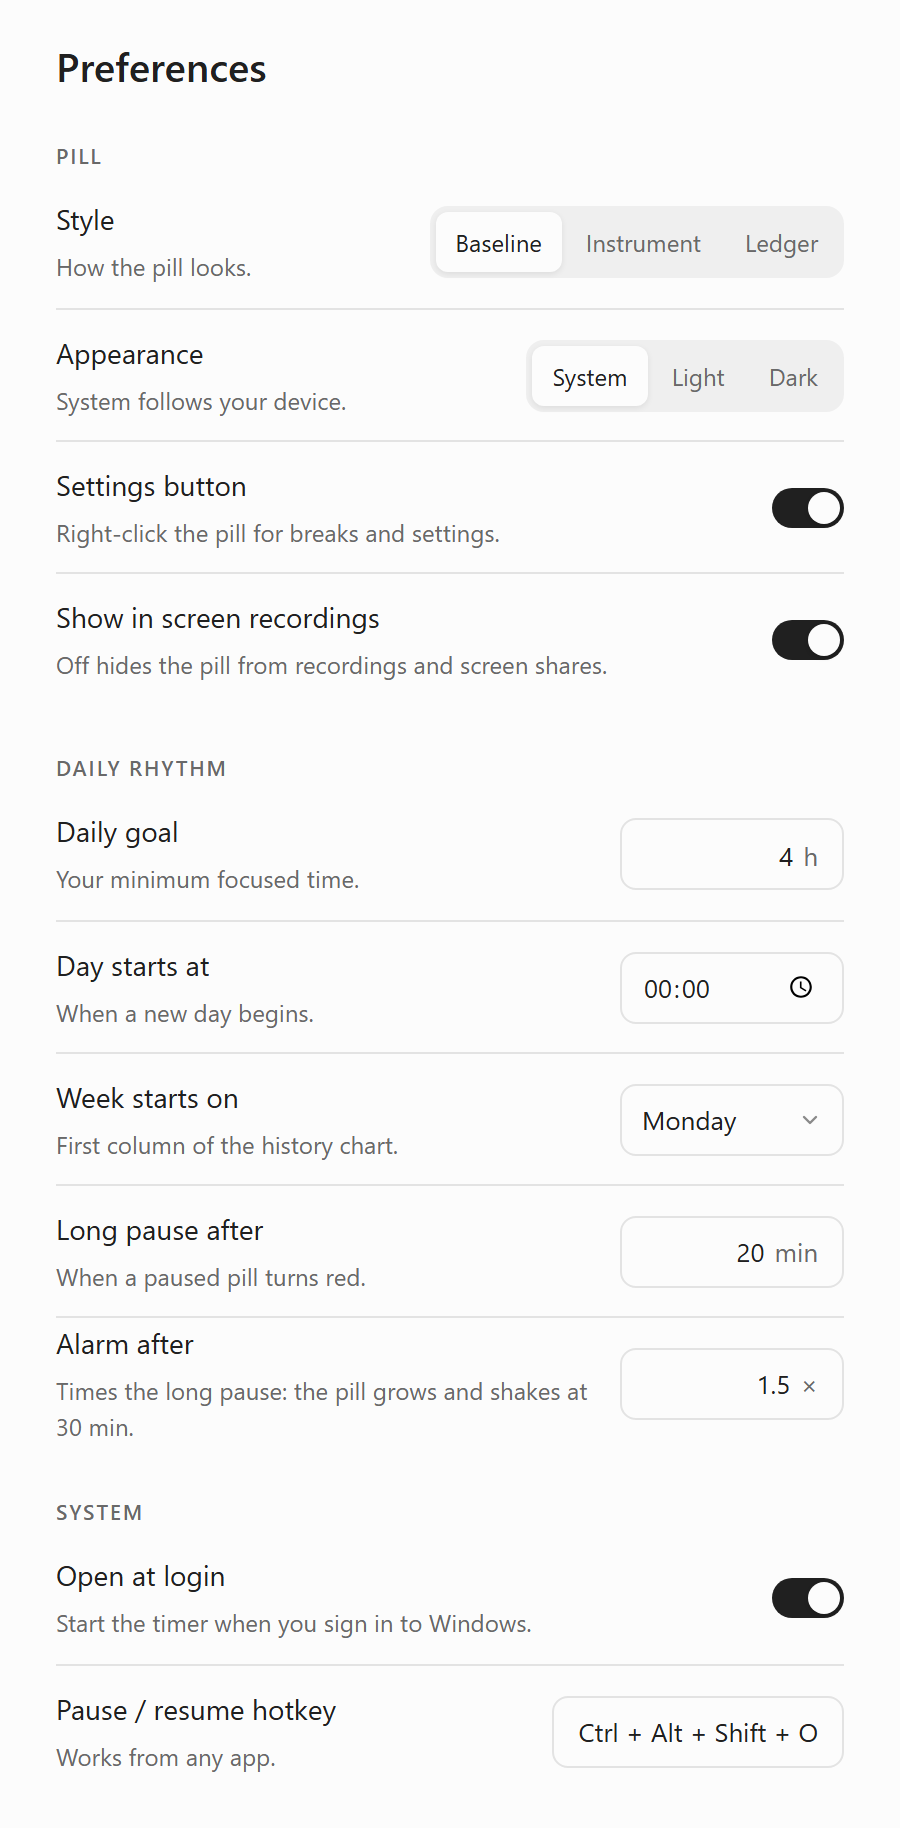
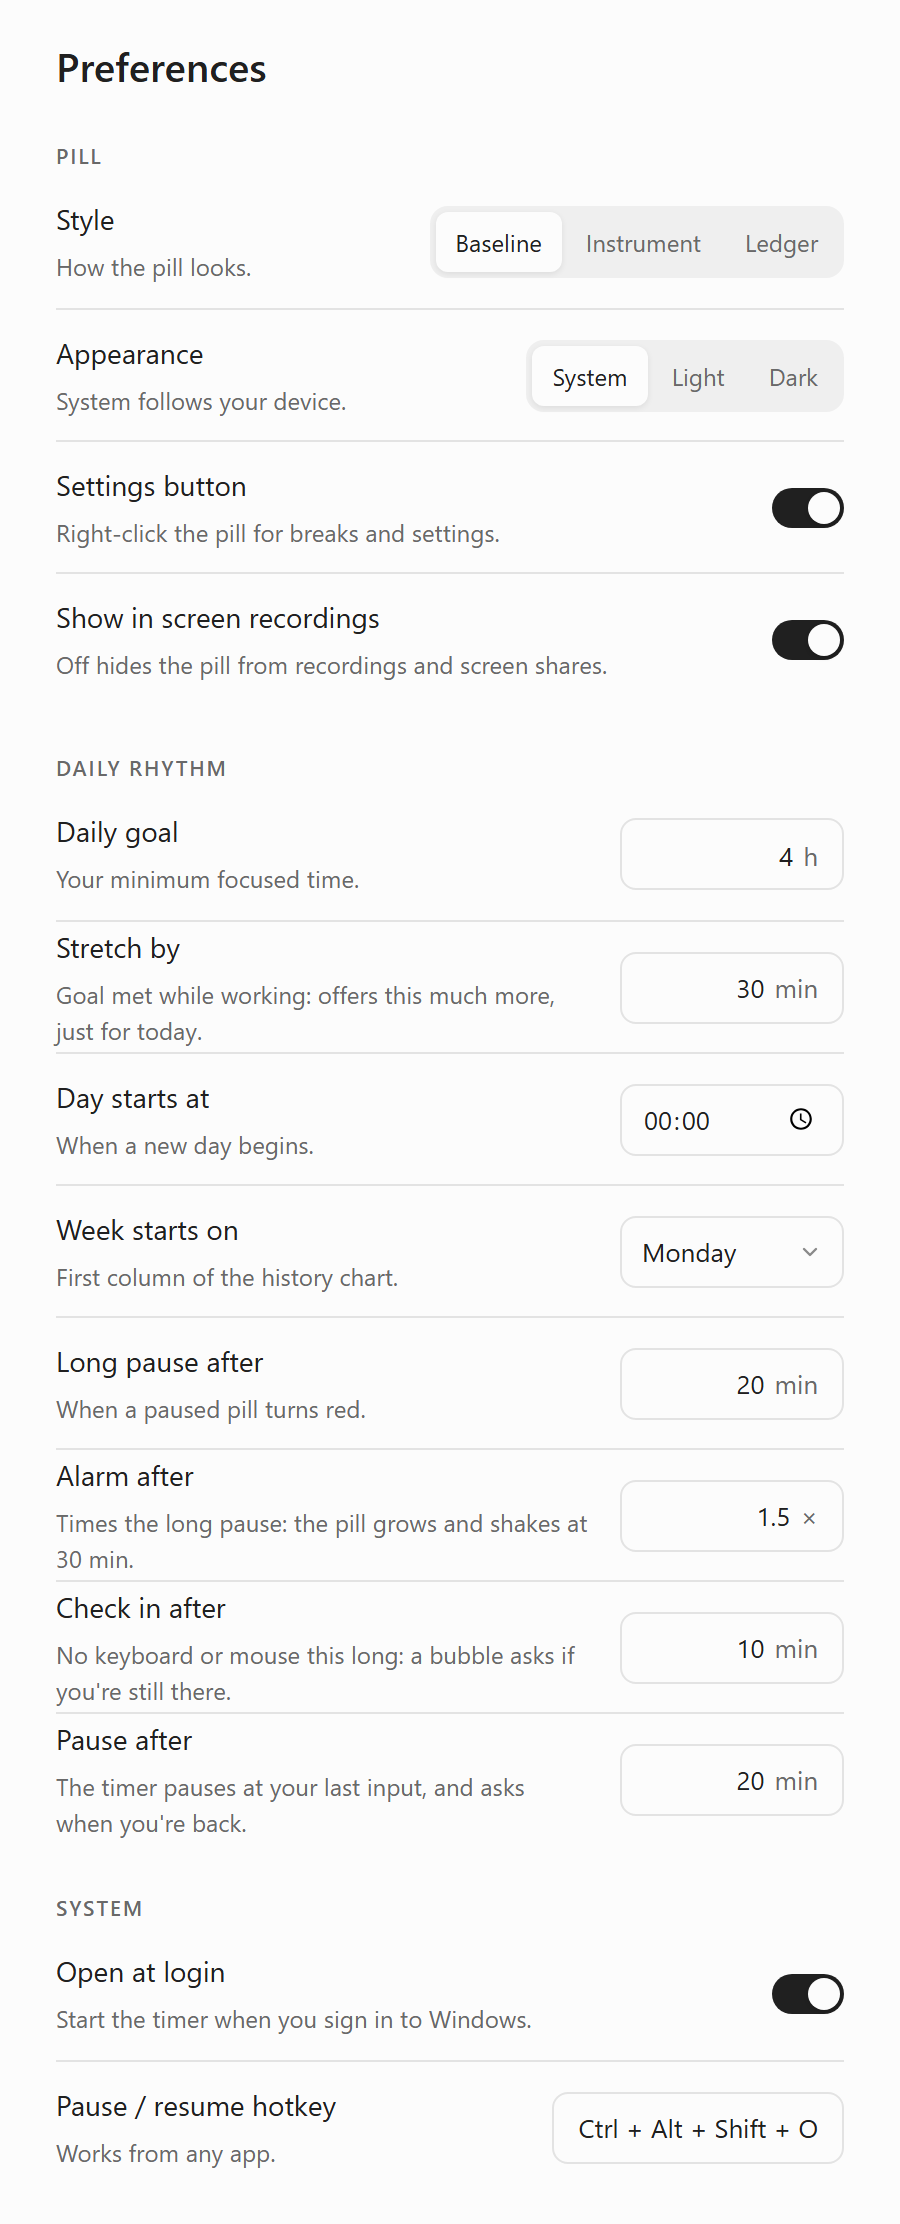
feat(website): goal confetti, stretch and away bubbles on the demo pill, new settings shots

diff --git a/website/src/site.css b/website/src/site.css
@@ -85,6 +85,21 @@ section[id] { scroll-margin-top: 72px; }
 .demo-pill { width: calc(var(--w) * var(--s, 1)); height: calc(48px * var(--s, 1)); filter: drop-shadow(0 calc(8px * var(--s, 1)) calc(18px * var(--s, 1)) #0000001f); }
 .demo-pill-inner { width: var(--w); height: 48px; transform: scale(var(--s, 1)); transform-origin: 0 0; }
 .demo-pill button { font: inherit; }
+/* Goal met: the app's green ring flash (styles/tokens.css) and its happy wiggle (pill/useCelebrate.ts). */
+.demo-pill[data-celebrate] { animation: demo-wiggle 0.5s ease-out; }
+.demo-pill[data-celebrate] .pill { animation: demo-celebrate 1.2s ease-out; }
+@keyframes demo-celebrate {
+  0% { box-shadow: inset 0 0 0 3px var(--green), 0 0 0 0 var(--green); }
+  100% { box-shadow: inset 0 0 0 3px transparent, 0 0 0 0 transparent; }
+}
+@keyframes demo-wiggle { 15% { translate: 5px; } 30% { translate: -5px; } 45% { translate: 3px; } 60% { translate: -3px; } 75% { translate: 1px; } 90% { translate: -1px; } }
+.hero-confetti { position: absolute; left: 50%; bottom: 0; width: min(720px, 100vw); height: 440px; translate: -50%; pointer-events: none; z-index: 4; }
+/* The app's away bubble, above the pill, its tail over the play button. */
+.site-bubble { width: 252px; margin-bottom: 8px; }
+.site-bubble .bubble { animation: none; text-align: left; }
+.away-steps { display: grid; grid-template-columns: repeat(3, minmax(0, 1fr)); gap: 16px; margin-top: 48px; }
+.away-art { display: flex; flex-direction: column; align-items: flex-end; justify-content: flex-end; align-self: center; min-height: 196px; margin-bottom: 14px; }
+.idea-pill:has(.site-bubble) { display: flex; flex-direction: column; align-items: flex-end; }
 
 /* ---- Header ---- */
 .site-header { position: fixed; inset: 0 0 auto; z-index: 10; border-bottom: 1px solid transparent; transition: background-color 0.3s, border-color 0.3s, backdrop-filter 0.3s; }
@@ -283,6 +298,7 @@ body, .site-header, .hero-window, .soon-panel, .step-art, .window-frame, .histor
 /* ---- Smaller screens ---- */
 @media (max-width: 1080px) {
   .nag-ladder { grid-template-columns: repeat(2, minmax(0, 1fr)); }
+  .away-steps { grid-template-columns: 1fr; max-width: 560px; }
   .nag-pill { --s: 1.05; }
 }
 @media (max-width: 900px) {
@@ -315,7 +331,7 @@ body, .site-header, .hero-window, .soon-panel, .step-art, .window-frame, .histor
   .idea-pill { --s: 1; }
   .styles-pill-spot { --s: 0.92; min-height: 180px; }
   .segmented span { padding: 0 7px; font-size: 12px; }
-  .styles-controls .segmented { flex-wrap: wrap; justify-content: center; } /* seven states: wrap, don't hide the last ones */
+  .styles-controls .segmented { flex-wrap: wrap; justify-content: center; } /* eight states: wrap, don't hide the last ones */
   .history.app-panel { padding: 16px; }
   .step-art { padding: 20px; }
   .step-art-pair { grid-template-columns: 1fr; }
@@ -327,7 +343,7 @@ body, .site-header, .hero-window, .soon-panel, .step-art, .window-frame, .histor
 }
 
 @media (prefers-reduced-motion: reduce) {
-  .smartscreen [data-pick="true"]::after, .soon-ring, .nag-stage .demo-pill[data-pause="alarm"] { animation: none; }
+  .smartscreen [data-pick="true"]::after, .soon-ring, .nag-stage .demo-pill[data-pause="alarm"], .demo-pill[data-celebrate], .demo-pill[data-celebrate] .pill { animation: none; }
   .btn, .styles-stage, .mode-sun, .mode-moon, body, .site-header, .hero-window, .soon-panel, .step-art, .window-frame, .history.app-panel { transition: none; }
 }
 

diff --git a/website/src/sections/Away.tsx b/website/src/sections/Away.tsx
@@ -1,0 +1,71 @@
+import { useRef } from "react";
+import { useInView } from "motion/react";
+import { DemoPill } from "../demo/DemoPill";
+import { HOUR, useDemoTimer, type DemoState } from "../demo/useDemoTimer";
+import { Bubble } from "../ui/Bubble";
+import { Reveal } from "../ui/Reveal";
+
+const MIN = 60_000;
+
+// What pill/useTimer.ts does when you walk off with the clock running (default settings: check in 10 min, pause 20 min).
+const STEPS: { when: string; title: string; body: string; bubble: Parameters<typeof Bubble>[0]; state: DemoState }[] = [
+  {
+    when: "10 min, no input",
+    title: "It checks in.",
+    body: "The clock keeps running and a bubble asks. Yes carries on. No pauses it at your last keystroke, so the quiet time doesn't count. Just come back and it counts.",
+    bubble: { title: "Hey, you still there?", sub: "No keyboard or mouse since 14:02.", buttons: ["Yes", "No"] },
+    state: { elapsedMs: 2 * HOUR + 18 * MIN, running: true, pausedMs: 0 },
+  },
+  {
+    when: "20 min, or a locked PC",
+    title: "It pauses itself.",
+    body: "Gone long enough, or locked the screen, and the timer stops at the moment you last touched the keyboard or mouse. Not when it noticed.",
+    bubble: { title: "Paused.", sub: "Away since 14:02." },
+    state: { elapsedMs: 2 * HOUR + 8 * MIN, running: false, pausedMs: 21 * MIN },
+  },
+  {
+    when: "Back at the desk",
+    title: "It asks what that was.",
+    body: "On a call or at the whiteboard? Count it puts the time back. Start now leaves it out and starts fresh. Ignore it and the time stays out.",
+    bubble: { title: "Welcome back.", sub: "Away 34 min, since 14:02.", buttons: ["Count it", "▶ Start now"], primary: 1 },
+    state: { elapsedMs: 2 * HOUR + 8 * MIN, running: false, pausedMs: 34 * MIN },
+  },
+];
+
+function Step({ when, title, body, bubble, state }: (typeof STEPS)[number]) {
+  const ref = useRef<HTMLLIElement>(null);
+  const inView = useInView(ref, { margin: "-10% 0px" });
+  const { model } = useDemoTimer(state, { active: inView });
+  return (
+    <li ref={ref} className="nag-stage away-step">
+      <div className="away-art">
+        {inView && <Bubble {...bubble} />}
+        {inView && <DemoPill theme="baseline" model={model} />}
+      </div>
+      <span className="nag-when">{when}</span>
+      <h3>{title}</h3>
+      <p>{body}</p>
+    </li>
+  );
+}
+
+export function Away() {
+  return (
+    <section className="section wrap" id="away">
+      <Reveal>
+        <p className="eyebrow">Away</p>
+        <h2 className="section-title">Forgot to pause? It didn't.</h2>
+        <p className="section-lead">
+          Walk off with the clock running and it won't quietly pad your day. It watches for keyboard and mouse
+          activity, never what you type, and asks before it counts.
+        </p>
+      </Reveal>
+      <Reveal delay={0.08}>
+        <ol className="away-steps">
+          {STEPS.map((s) => <Step key={s.title} {...s} />)}
+        </ol>
+      </Reveal>
+      <p className="nag-note">Both times are yours to set, or turn off. Locking the PC always pauses.</p>
+    </section>
+  );
+}

diff --git a/website/src/sections/Idea.tsx b/website/src/sections/Idea.tsx
@@ -2,16 +2,17 @@ import { useRef } from "react";
 import { useInView } from "motion/react";
 import { DemoPill } from "../demo/DemoPill";
 import { HOUR, useDemoTimer, type DemoState } from "../demo/useDemoTimer";
+import { Bubble } from "../ui/Bubble";
 import { Reveal } from "../ui/Reveal";
 
 const MIN = 60_000;
-const BEATS: { title: string; body: string; state: DemoState }[] = [
+const BEATS: { title: string; body: string; state: DemoState; bubble?: boolean }[] = [
   { title: "Press play when real work starts.", body: "The light turns yellow and the clock runs. Sitting at your desk doesn't count. Working does.", state: { elapsedMs: HOUR + 12 * MIN + 36_000, running: true, pausedMs: 0 } },
   { title: "Press pause when it stops.", body: "Coffee, phone, lunch: pause. Ctrl + Alt + Shift + O does it from any app. Stay away and the red light starts hopping. Stay away long enough and the whole pill grows and shakes.", state: { elapsedMs: 2 * HOUR + 5 * MIN + 44_000, running: false, pausedMs: 25 * MIN } },
-  { title: "Hit your daily minimum.", body: "Set the number of hours you owe yourself. When you get there, the light goes green.", state: { elapsedMs: 4 * HOUR + 37 * MIN + 12_000, running: true, pausedMs: 0 } },
+  { title: "Hit your daily minimum.", body: "Set the number of hours you owe yourself. When you get there, the light goes green, the pill flashes and wiggles, and confetti flies. Then it offers a stretch: 30 more minutes, just for today. \"Not today\" and you're done.", state: { elapsedMs: 4 * HOUR + 12_000, running: true, pausedMs: 0 }, bubble: true },
 ];
 
-function Beat({ index, title, body, state }: (typeof BEATS)[number] & { index: number }) {
+function Beat({ index, title, body, state, bubble }: (typeof BEATS)[number] & { index: number }) {
   const ref = useRef<HTMLLIElement>(null);
   const inView = useInView(ref, { margin: "-10% 0px" });
   const { model } = useDemoTimer(state, { active: inView });
@@ -24,6 +25,7 @@ function Beat({ index, title, body, state }: (typeof BEATS)[number] & { index: n
       </Reveal>
       <Reveal className="idea-pill" delay={0.15}>
         {/* Mounted only in view, so the long-pause bounce plays as you arrive. */}
+        {inView && bubble && <Bubble title="Goal met." sub="Push another 30 min today?" buttons={["+30 min", "Not today"]} />}
         {inView && <DemoPill theme="baseline" model={model} />}
       </Reveal>
     </li>

diff --git a/website/src/sections/Settings.tsx b/website/src/sections/Settings.tsx
@@ -6,10 +6,13 @@ const ITEMS: [string, string][] = [
   ["Settings button", "Show or hide the small button on the pill. Right-click it for breaks and settings either way."],
   ["Show in screen recordings", "Turn it off and the pill disappears from recordings and screen shares."],
   ["Daily goal", "Your minimum hours. The pill turns green when you get there."],
+  ["Stretch by", "Goal met while working: offers this much more, just for today. 30 min unless you change it, 0 to never ask."],
   ["Day starts at", "When a new day begins. Useful if you work past midnight."],
   ["Week starts on", "The first column of the history chart."],
   ["Long pause after", "How long a pause can run before the pill turns red and starts asking for you."],
   ["Alarm after", "When the pill grows, shakes and flashes in the taskbar: 1.5 long pauses unless you change it."],
+  ["Check in after", "No keyboard or mouse this long while the timer runs: a bubble asks if you're still there. 10 min by default."],
+  ["Pause after", "No input this long and the timer pauses at your last input, then asks when you're back. 20 min by default."],
   ["Open at login", "Start On Hours when you sign in to Windows."],
   ["Pause / resume hotkey", "Start or pause from any app without touching the pill. Ctrl + Alt + Shift + O unless you pick your own."],
 ];
@@ -19,7 +22,7 @@ export function Settings() {
     <section className="section wrap" id="settings">
       <Reveal>
         <p className="eyebrow">Settings</p>
-        <h2 className="section-title">Eleven switches. That's all of them.</h2>
+        <h2 className="section-title">Fourteen switches. That's all of them.</h2>
         <p className="section-lead">Right-click the pill and choose Settings, or click the tray icon by the clock.</p>
       </Reveal>
       <div className="settings-layout">
@@ -45,4 +48,4 @@ export function Settings() {
 }
 
 // Height of the screenshot at 450 wide; regenerate with `node scripts/shots/site.mjs`.
-const SHOT_HEIGHT = 914;
+const SHOT_HEIGHT = 1112;

diff --git a/website/src/sections/Hero.tsx b/website/src/sections/Hero.tsx
@@ -1,5 +1,7 @@
 import { useEffect, useRef, useState } from "react";
 import { motion, useReducedMotion } from "motion/react";
+import { drawBurst } from "@app/lib/confetti";
+import { useCelebrate } from "@app/pill/useCelebrate";
 import { DemoPill } from "../demo/DemoPill";
 import { HOUR, useDemoTimer } from "../demo/useDemoTimer";
 import { REPO, type Release } from "../lib/release";
@@ -44,6 +46,18 @@ export function Hero({ release }: { release: Release }) {
     };
   }, [still, set]);
 
+  // The goal moment, as in the app: a green flash and a wiggle, and the app's own confetti.
+  const celebrate = useCelebrate(model.elapsedMs, model.targetMs, model.running, true);
+  const confetti = useRef<HTMLCanvasElement>(null);
+  useEffect(() => {
+    const c = confetti.current;
+    const pill = c?.parentElement?.querySelector(".demo-pill");
+    if (!celebrate || !c || !pill) return;
+    const a = c.getBoundingClientRect();
+    const b = pill.getBoundingClientRect();
+    drawBurst(c,{ x: b.left - a.left, y: b.top - a.top, w: b.width, h: b.height, up: true });
+  }, [celebrate]);
+
   const take = () => {
     taken.current = true;
     setPointer("gone");
@@ -77,7 +91,8 @@ export function Hero({ release }: { release: Release }) {
 
       <motion.div className="hero-stage" initial={{ opacity: 0, y: 40 }} animate={{ opacity: 1, y: 0 }} transition={{ duration: 1, delay: 0.9, ease }}>
         <div className="hero-pill-spot" onPointerDown={take} onKeyDown={take}>
-          <DemoPill theme="baseline" model={model} className="hero-pill" />
+          <canvas ref={confetti} className="hero-confetti" aria-hidden="true" />
+          <DemoPill theme="baseline" model={model} className="hero-pill" celebrate={celebrate} />
           {pointer !== "gone" && (
             <motion.span
               className="hero-pointer"

diff --git a/website/src/demo/useDemoTimer.ts b/website/src/demo/useDemoTimer.ts
@@ -5,8 +5,9 @@ import type { PillModel } from "@app/themes/types";
 export const HOUR = 3_600_000;
 const MIN = 60_000;
 
-/** breakLeftMs > 0: on a planned break. afterBreak: the break ran out, so the pause nags from the nudge on. */
-export type DemoState = { elapsedMs: number; running: boolean; pausedMs: number; breakLeftMs?: number; afterBreak?: boolean };
+/** breakLeftMs > 0: on a planned break. afterBreak: the break ran out, so the pause nags from the nudge on.
+ * extraMs: today's stretch past the goal (said yes to when the goal was met). */
+export type DemoState = { elapsedMs: number; running: boolean; pausedMs: number; breakLeftMs?: number; afterBreak?: boolean; extraMs?: number };
 
 type Options = {
   goalMs?: number;
@@ -44,14 +45,15 @@ export function useDemoTimer(initial: DemoState, { goalMs = 4 * HOUR, longPauseM
 
   const toggle = () => setState((s) => ({ ...s, running: !s.running, pausedMs: 0, breakLeftMs: 0, afterBreak: false }));
   const takeBreak = (ms: number) => setState((s) => ({ ...s, running: false, pausedMs: 0, breakLeftMs: ms, afterBreak: false }));
-  const { elapsedMs, running, pausedMs, breakLeftMs = 0, afterBreak = false } = state;
+  const { elapsedMs, running, pausedMs, breakLeftMs = 0, afterBreak = false, extraMs = 0 } = state;
   const done = elapsedMs >= goalMs;
+  const targetMs = goalMs + extraMs;
   const onBreak = !running && breakLeftMs > 0;
   const model: PillModel = {
     elapsedMs,
     goalMs,
-    targetMs: goalMs,
-    progress: Math.min(1, elapsedMs / goalMs),
+    targetMs,
+    progress: Math.min(1, elapsedMs / targetMs),
     running,
     done,
     pausedMs,

diff --git a/website/src/demo/DemoPill.tsx b/website/src/demo/DemoPill.tsx
@@ -2,14 +2,15 @@ import type { CSSProperties } from "react";
 import { pillWidth, themeById } from "@app/themes/registry";
 import type { PillModel } from "@app/themes/types";
 
-type Props = { theme: string; model: PillModel; className?: string };
+type Props = { theme: string; model: PillModel; className?: string; celebrate?: boolean };
 
-/** The app's real pill at its real window size (48px tall). CSS scales it through --s on the class. */
-export function DemoPill({ theme, model, className }: Props) {
+/** The app's real pill at its real window size (48px tall). CSS scales it through --s on the class.
+ * `celebrate`: the goal-met flash and wiggle (the app's pill/useCelebrate.ts). */
+export function DemoPill({ theme, model, className, celebrate }: Props) {
   const t = themeById(theme);
   const width = pillWidth(t, model.showSettingsButton);
   return (
-    <div className={`demo-pill ${className ?? ""}`} data-pause={model.pause} style={{ "--w": `${width}px` } as CSSProperties}>
+    <div className={`demo-pill ${className ?? ""}`} data-pause={model.pause} data-celebrate={celebrate || undefined} style={{ "--w": `${width}px` } as CSSProperties}>
       <div className="demo-pill-inner">
         <t.Pill m={model} />
       </div>

diff --git a/website/src/ui/Bubble.tsx b/website/src/ui/Bubble.tsx
@@ -1,0 +1,23 @@
+import "@app/windows/bubble/bubble.css";
+
+type Props = { title: string; sub: string; buttons?: [string, string]; primary?: 0 | 1; theme?: string };
+
+/**
+ * A still of the app's away bubble (windows/bubble/BubbleWindow.tsx), with its own CSS. Inert: the
+ * text around it says what the answers do.
+ */
+export function Bubble({ title, sub, buttons, primary = 0, theme = "baseline" }: Props) {
+  return (
+    <div className="site-bubble" inert aria-hidden="true">
+      <div className="bubble" data-theme={theme}>
+        <p className="bubble-title">{title}</p>
+        <p className="bubble-sub">{sub}</p>
+        {buttons && (
+          <div className="bubble-actions">
+            {buttons.map((label, i) => <button type="button" key={label} className={i === primary ? "bubble-primary" : undefined}>{label}</button>)}
+          </div>
+        )}
+      </div>
+    </div>
+  );
+}

diff --git a/website/src/sections/Styles.tsx b/website/src/sections/Styles.tsx
@@ -15,6 +15,7 @@ const STATES = {
   alarm: { label: "Alarm", state: { elapsedMs: 48 * MIN + 10_000, running: false, pausedMs: 45 * MIN } },
   break: { label: "Break", state: { elapsedMs: 2 * HOUR + 5 * MIN + 44_000, running: false, pausedMs: 0, breakLeftMs: 9 * MIN + 59_000 } },
   met: { label: "Goal met", state: { elapsedMs: 4 * HOUR + 37 * MIN + 12_000, running: true, pausedMs: 0 } },
+  stretch: { label: "Stretch", state: { elapsedMs: 4 * HOUR + 12 * MIN + 40_000, running: true, pausedMs: 0, extraMs: 30 * MIN } },
 } satisfies Record<string, { label: string; state: DemoState }>;
 type StateId = keyof typeof STATES;
 

diff --git a/website/src/App.tsx b/website/src/App.tsx
@@ -1,6 +1,7 @@
 import { MotionConfig } from "motion/react";
 import { useRelease } from "./lib/release";
 import { ComingSoon } from "./sections/ComingSoon";
+import { Away } from "./sections/Away";
 import { Download } from "./sections/Download";
 import { Footer } from "./sections/Footer";
 import { Header } from "./sections/Header";
@@ -21,6 +22,7 @@ function App() {
         <Hero release={release} />
         <Idea />
         <Nag />
+        <Away />
         <Styles />
         <Week />
         <Settings />

diff --git a/website/src/sections/Week.tsx b/website/src/sections/Week.tsx
@@ -66,6 +66,7 @@ export function Week() {
             <li>A timeline of every session</li>
             <li>Time the PC was on against time you worked</li>
             <li>Your breaks, marked on the timeline</li>
+            <li>Days you stretched past the goal</li>
             <li>This week compared with last week</li>
           </ul>
         </Reveal>
